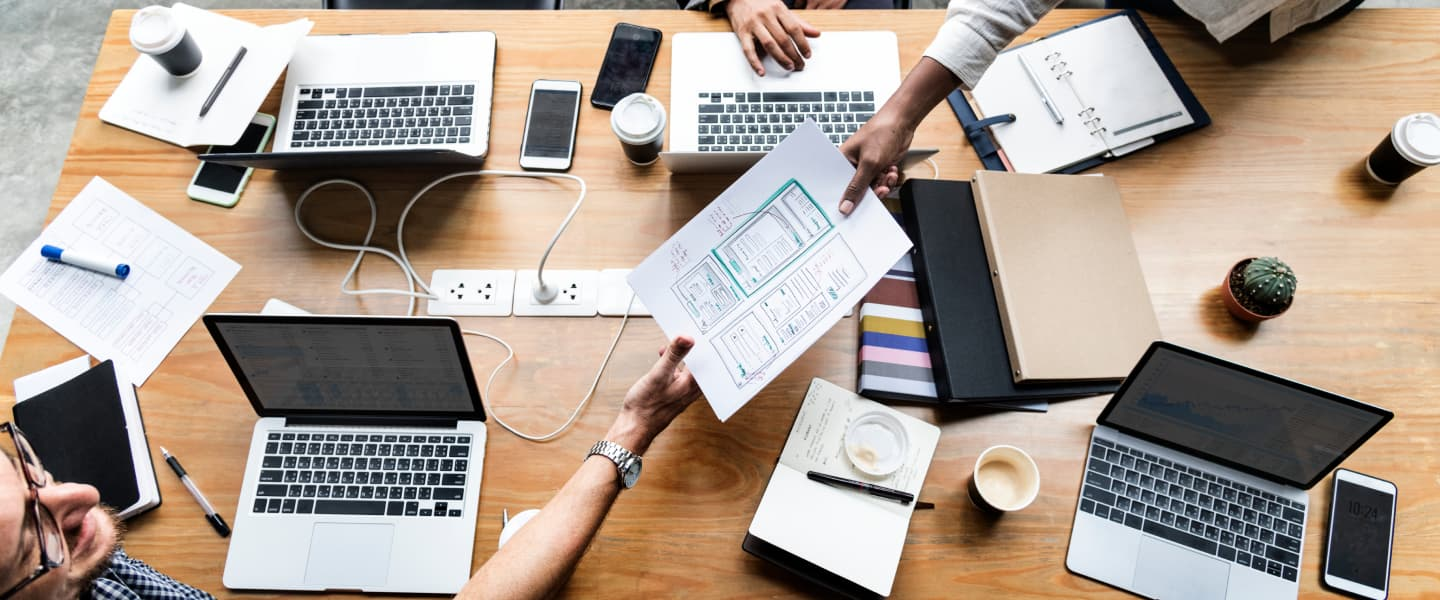
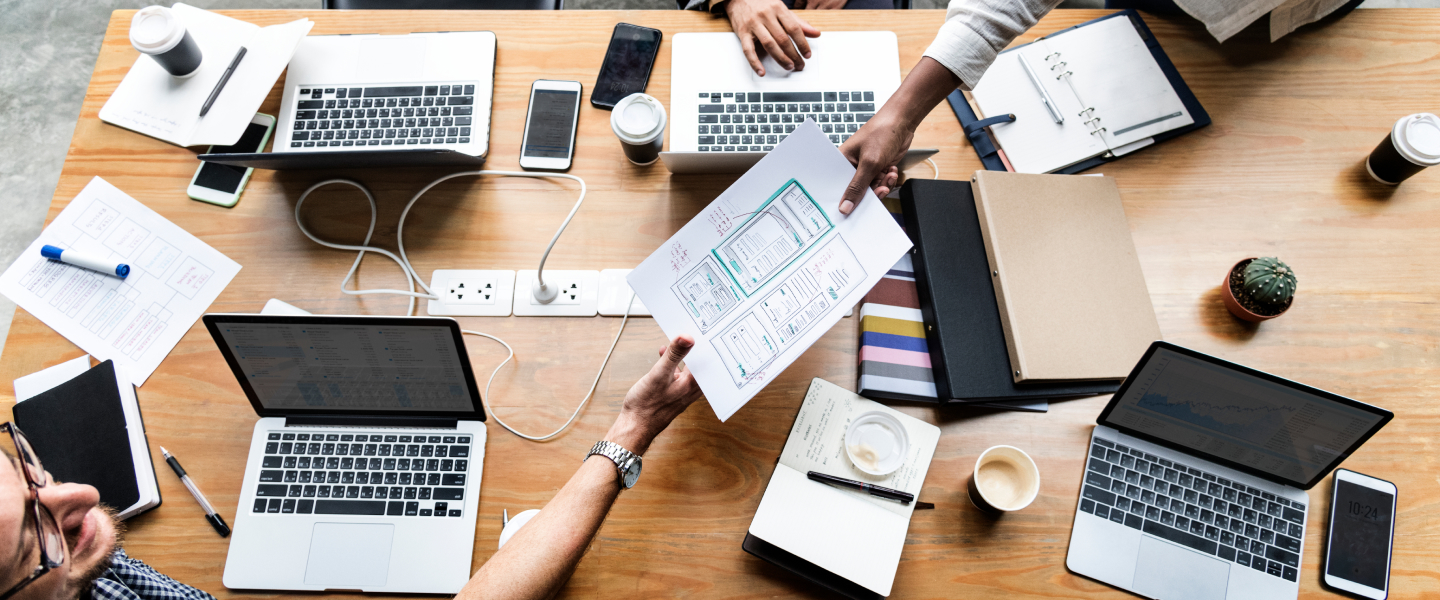
fix retina photo

diff --git a/css/slyles.css b/css/slyles.css
@@ -23,6 +23,8 @@ body {
 }
 
 .container {
+  min-width: 320px;
+  max-width: 428px;
   padding: 0 16px;
   margin: 0 auto;
 }
@@ -141,6 +143,7 @@ a {
   text-transform: uppercase;
   margin-right: 76px;
   position: relative;
+  padding: 24px 0;
 }
 
 .logo-blue {
@@ -205,7 +208,7 @@ a {
 .intro {
   background: var(--navyblue);
   text-align: center;
-  padding: 188px 0;
+  padding: 112px 0;
   margin: 0 auto;
   background-color: var(--navyblue);
   background-image: linear-gradient(
@@ -216,24 +219,24 @@ a {
   background-size: cover;
   background-repeat: no-repeat;
   background-position: 50% 50%;
-  max-width: 1440px;
+  max-width: 428px;
 }
 
 @media screen and (min-device-pixel-ratio: 2),
   screen and (min-resolution: 192dpi),
   screen and (min-resolution: 2dppx) {
-  .list-hero {
+  .intro {
     background-image: linear-gradient(
         rgba(46, 47, 66, 0.7),
         rgba(46, 47, 66, 0.7)
       ),
-      url(../images/people-office-mobile2x.jpg);
+      url(../images/people-office-mobile@2x.jpg);
   }
 }
 
 .intro-title {
   color: var(--white);
-  max-width: 496px;
+  max-width: 320px;
   text-align: center;
   font-size: 36px;
   font-weight: 700;
@@ -438,6 +441,7 @@ a {
 }
 
 /*Section 5*/
+
 .customer-section {
   padding: 96px 0;
 }
@@ -504,7 +508,7 @@ a {
   flex-direction: column;
   justify-content: center;
   align-items: center;
-  max-width: 582px;
+  max-width: 488px;
   gap: 72px;
 }
 
@@ -585,7 +589,6 @@ a {
 
 /*Footter subscribe*/
 .fotter-subscribe {
-  width: 100%;
 }
 
 .footer-subscribe-title {
@@ -600,7 +603,6 @@ a {
 }
 .footer-form {
   gap: 16px;
-  min-width: 100%;
   display: flex;
   flex-direction: column;
 }
@@ -616,7 +618,7 @@ a {
 }
 
 .footer-form-input {
-  width: 100%;
+  max-width: 398px;
   height: 40px;
   padding: 8px 16px 8px;
   filter: drop-shadow(0px 4px 4px rgba(0, 0, 0, 0.15));
@@ -1155,7 +1157,6 @@ input:checked + label > span {
 
 .mobile-social-list {
   display: inline-flex;
-  justify-content: space-between;
   align-items: center;
   gap: 56px;
 }

diff --git a/index.html b/index.html
@@ -155,6 +155,7 @@
           <ul class="work-list card-set">
             <li class="work-item">
               <img
+                srcset="./images/comp.jpg 1x, ./images/comp2x.jpg 2x"
                 src="./images/comp.jpg"
                 alt="computer"
                 width="360"
@@ -162,10 +163,17 @@
               />
             </li>
             <li class="work-item">
-              <img src="./images/app.jpg" alt="app" width="360" height="300" />
+              <img
+                srcset="./images/app.jpg 1x, ./images/app2x.jpg 2x"
+                src="./images/app.jpg"
+                alt="app"
+                width="360"
+                height="300"
+              />
             </li>
             <li class="work-item">
               <img
+                srcset="./images/phone.jpg 1x, ./images/phone2x.jpg 2x"
                 src="./images/phone.jpg"
                 alt="phone"
                 width="360"
@@ -393,7 +401,7 @@
             </li>
             <li class="team-item">
               <img
-                srcset="./images/danie;.jpg 1x, ./images/daniel2x.jpg 2x"
+                srcset="./images/daniel.jpg 1x, ./images/daniel2x.jpg 2x"
                 src="./images/daniel.jpg"
                 alt="Daniel Wilson"
                 width="264"

diff --git a/css/tablet.css b/css/tablet.css
@@ -1,5 +1,5 @@
 .container {
-  width: 768px;
+  max-width: 768px;
 }
 .header {
   padding: 0;
@@ -17,7 +17,9 @@
 }
 
 .contacts-list {
-  display: block;
+  display: flex;
+  gap: 12px;
+  flex-direction: column;
 }
 
 .contacts-link {
@@ -38,18 +40,18 @@
       rgba(46, 47, 66, 0.7)
     ),
     url(../images/people-office-tablet.jpg);
-  padding: 112px 0;
+  max-width: 768px;
 }
 
 @media screen and (min-device-pixel-ratio: 2),
   screen and (min-resolution: 192dpi),
   screen and (min-resolution: 2dppx) {
-  .list-hero {
+  .intro {
     background-image: linear-gradient(
         rgba(46, 47, 66, 0.7),
         rgba(46, 47, 66, 0.7)
       ),
-      url(../images/people-office-tablet2x.jpg);
+      url(../images/people-office-tablet@2x.jpg);
   }
 }
 
@@ -58,6 +60,7 @@
   font-size: 56px;
   line-height: 1.07;
   letter-spacing: 1.12px;
+  max-width: 496px;
 }
 
 /*section2*/
@@ -92,10 +95,6 @@
 
 /*section 5*/
 
-.customers {
-  max-width: 582px;
-}
-
 .customer-list {
   gap: 72px 24px;
 }
@@ -115,6 +114,7 @@
   justify-content: start;
   align-items: baseline;
   flex-direction: row;
+  max-width: 582px;
   flex-wrap: wrap;
   gap: 72px 24px;
 }

diff --git a/css/desktop.css b/css/desktop.css
@@ -1,10 +1,20 @@
 .container {
-  width: 1158px;
-  padding: 0%;
+  max-width: 1158px;
+  padding: 0 15px;
 }
 
 .contacts-list {
+  padding-top: 24px;
+  padding-bottom: 24px;
   display: flex;
+  flex-direction: row;
+  gap: 40px;
+}
+
+.contacts-link {
+  font-size: 16px;
+  line-height: 150%;
+  letter-spacing: 0.32px;
 }
 
 .current::after {
@@ -18,18 +28,18 @@
       rgba(46, 47, 66, 0.7)
     ),
     url(../images/people-office.jpg);
-  padding: 112px 0;
+  max-width: 1158px;
 }
 
 @media screen and (min-device-pixel-ratio: 2),
   screen and (min-resolution: 192dpi),
   screen and (min-resolution: 2dppx) {
-  .list-hero {
+  .intro {
     background-image: linear-gradient(
         rgba(46, 47, 66, 0.7),
         rgba(46, 47, 66, 0.7)
       ),
-      url(../images/people-office2x.jpg);
+      url(../images/people-office@2x.jpg);
   }
 }
 
@@ -87,10 +97,6 @@
   padding-bottom: 120px;
 }
 
-.customers {
-  max-width: 1158px;
-}
-
 .customer-list {
   flex-wrap: nowrap;
   justify-content: space-between;
@@ -101,8 +107,6 @@
 }
 
 .footer-container {
-  flex-wrap: nowrap;
-  justify-content: center;
   max-width: 1158px;
   gap: unset;
 }
